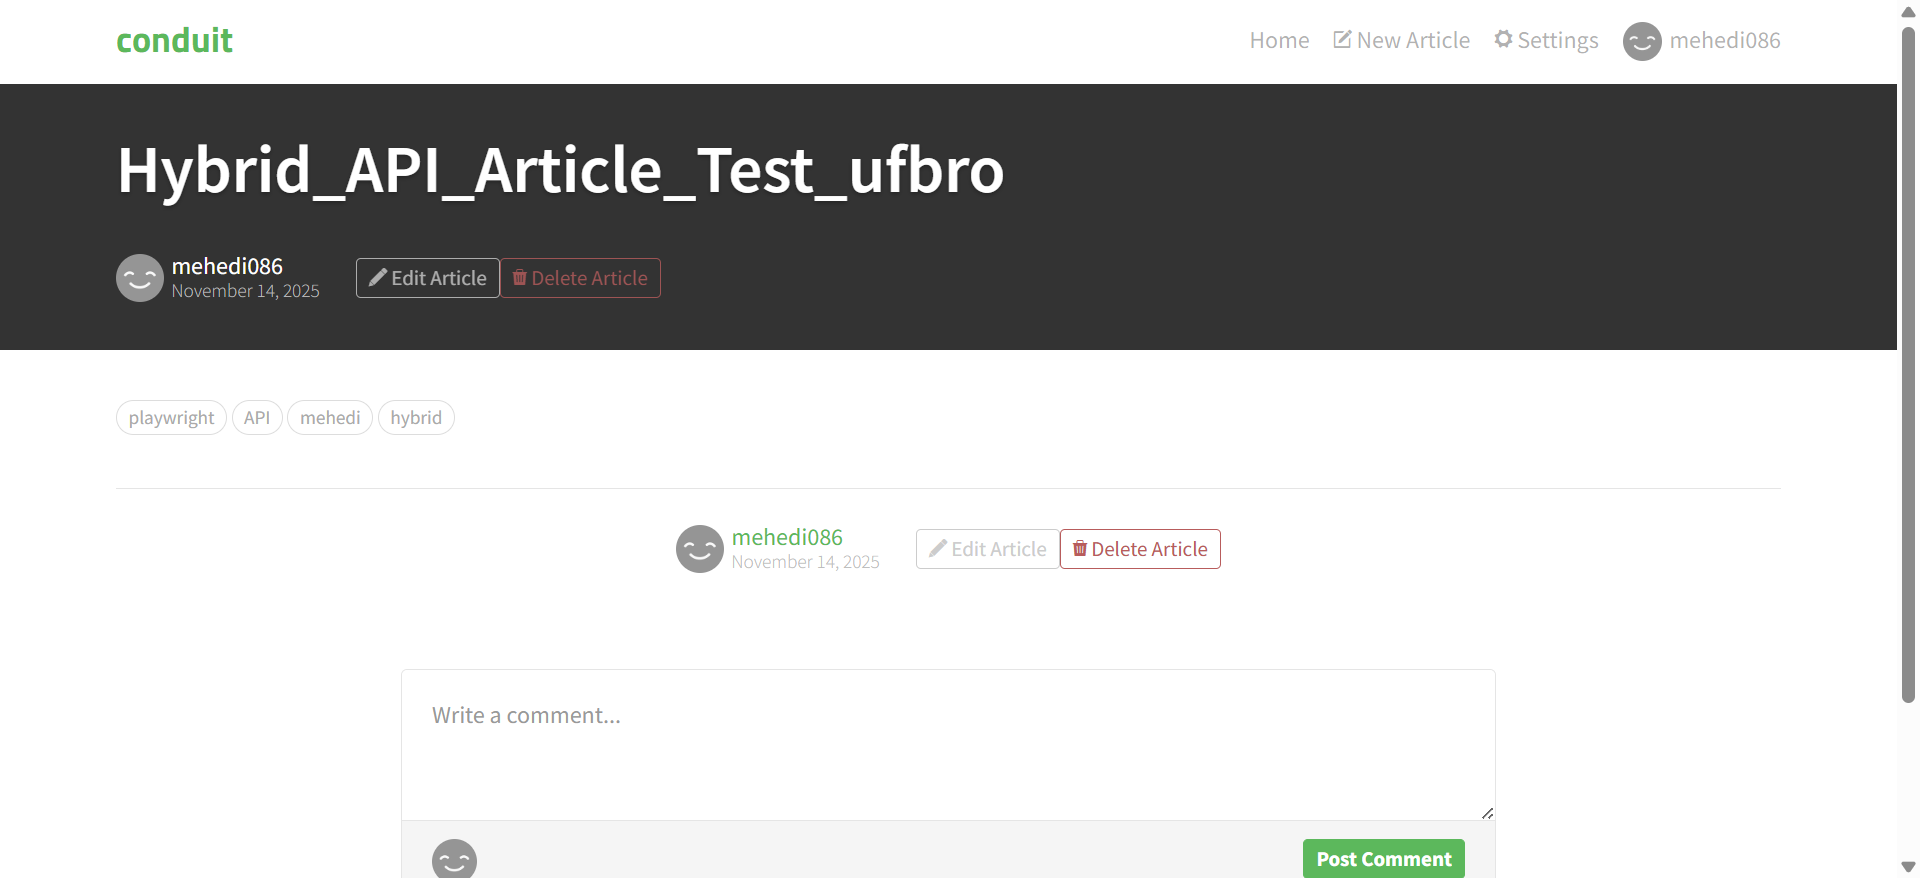
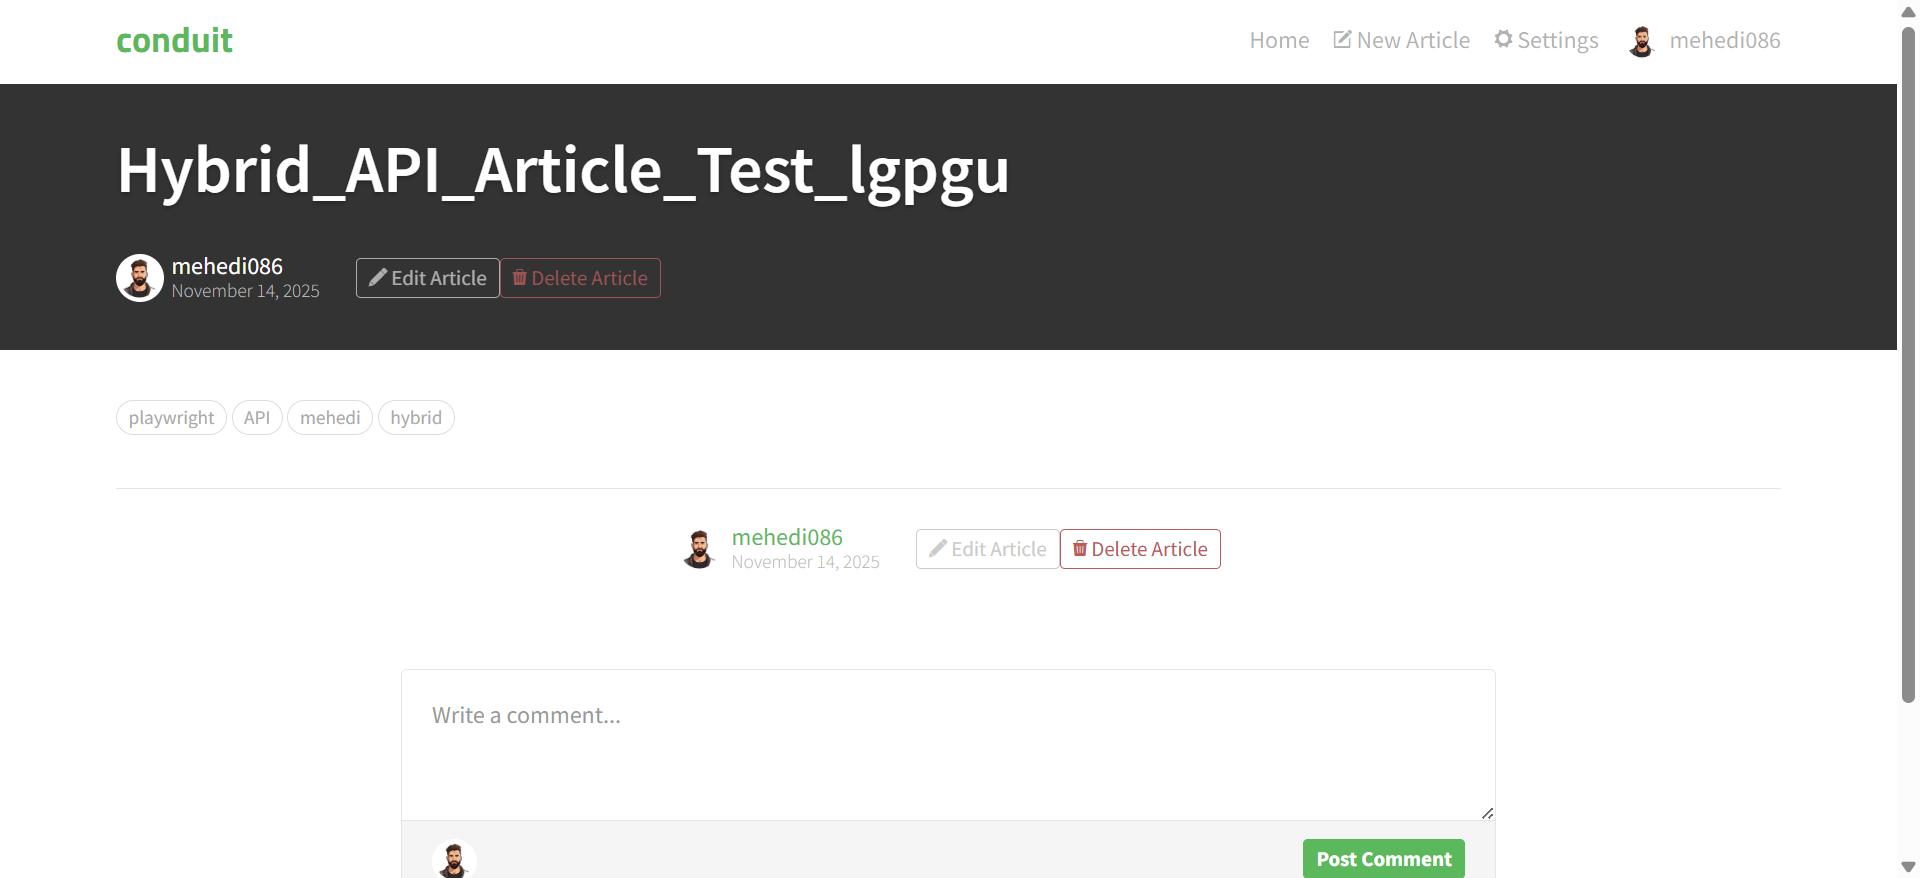
test case: update settings done and passed

diff --git a/report.html b/report.html
@@ -328,7 +328,7 @@ div.media {
   </head>
   <body>
     <h1 id="title">report.html</h1>
-    <p>Report generated on 14-Nov-2025 at 01:18:05 by <a href="https://pypi.python.org/pypi/pytest-html">pytest-html</a>
+    <p>Report generated on 14-Nov-2025 at 02:13:42 by <a href="https://pypi.python.org/pypi/pytest-html">pytest-html</a>
         v4.1.1</p>
     <div id="environment-header">
       <h2>Environment</h2>
@@ -382,7 +382,7 @@ div.media {
         <h2>Summary</h2>
         <div class="additional-summary prefix">
         </div>
-        <p class="run-count">4 tests took 00:00:27.</p>
+        <p class="run-count">5 tests took 00:00:34.</p>
         <p class="filter">(Un)check the boxes to filter the results.</p>
         <div class="summary__reload">
           <div class="summary__reload__button hidden" onclick="location.reload()">
@@ -395,7 +395,7 @@ div.media {
             <input checked="true" class="filter" name="filter_checkbox" type="checkbox" data-test-result="failed" disabled/>
             <span class="failed">0 Failed,</span>
             <input checked="true" class="filter" name="filter_checkbox" type="checkbox" data-test-result="passed" />
-            <span class="passed">4 Passed,</span>
+            <span class="passed">5 Passed,</span>
             <input checked="true" class="filter" name="filter_checkbox" type="checkbox" data-test-result="skipped" disabled/>
             <span class="skipped">0 Skipped,</span>
             <input checked="true" class="filter" name="filter_checkbox" type="checkbox" data-test-result="xfailed" disabled/>
@@ -429,7 +429,7 @@ div.media {
     </table>
   </body>
   <footer>
-    <div id="data-container" data-jsonblob="{&#34;environment&#34;: {&#34;Python&#34;: &#34;3.12.2&#34;, &#34;Platform&#34;: &#34;Windows-11-10.0.26100-SP0&#34;, &#34;Packages&#34;: {&#34;pytest&#34;: &#34;9.0.1&#34;, &#34;pluggy&#34;: &#34;1.6.0&#34;}, &#34;Plugins&#34;: {&#34;html&#34;: &#34;4.1.1&#34;, &#34;metadata&#34;: &#34;3.1.1&#34;}, &#34;JAVA_HOME&#34;: &#34;C:\\Program Files\\Java\\jdk-23&#34;}, &#34;tests&#34;: {&#34;tests/test_case1_create_article.py::test_create_article_via_api_after_ui_login&#34;: [{&#34;extras&#34;: [], &#34;result&#34;: &#34;Passed&#34;, &#34;testId&#34;: &#34;tests/test_case1_create_article.py::test_create_article_via_api_after_ui_login&#34;, &#34;duration&#34;: &#34;00:00:06&#34;, &#34;resultsTableRow&#34;: [&#34;&lt;td class=\&#34;col-result\&#34;&gt;Passed&lt;/td&gt;&#34;, &#34;&lt;td class=\&#34;col-testId\&#34;&gt;tests/test_case1_create_article.py::test_create_article_via_api_after_ui_login&lt;/td&gt;&#34;, &#34;&lt;td class=\&#34;col-duration\&#34;&gt;00:00:06&lt;/td&gt;&#34;, &#34;&lt;td class=\&#34;col-links\&#34;&gt;&lt;/td&gt;&#34;], &#34;log&#34;: &#34;---------------------------- Captured stdout setup -----------------------------\nUsing existing authenticated session\n\n----------------------------- Captured stdout call -----------------------------\nAuth token successfully fetched from saved session\nArticle created via API: Hybrid_API_Article_Test_ufbro-38599\nArticle created successfully via API after UI login\n&#34;}], &#34;tests/test_case2_edit_article.py::test_edit_article_after_api_creation&#34;: [{&#34;extras&#34;: [], &#34;result&#34;: &#34;Passed&#34;, &#34;testId&#34;: &#34;tests/test_case2_edit_article.py::test_edit_article_after_api_creation&#34;, &#34;duration&#34;: &#34;00:00:08&#34;, &#34;resultsTableRow&#34;: [&#34;&lt;td class=\&#34;col-result\&#34;&gt;Passed&lt;/td&gt;&#34;, &#34;&lt;td class=\&#34;col-testId\&#34;&gt;tests/test_case2_edit_article.py::test_edit_article_after_api_creation&lt;/td&gt;&#34;, &#34;&lt;td class=\&#34;col-duration\&#34;&gt;00:00:08&lt;/td&gt;&#34;, &#34;&lt;td class=\&#34;col-links\&#34;&gt;&lt;/td&gt;&#34;], &#34;log&#34;: &#34;----------------------------- Captured stdout call -----------------------------\nArticle created via API: Editable_Article_Test_snqea-38599\nEdited article verified successfully!\n&#34;}], &#34;tests/test_case3_delete_article.py::test_delete_article_after_api_creation&#34;: [{&#34;extras&#34;: [], &#34;result&#34;: &#34;Passed&#34;, &#34;testId&#34;: &#34;tests/test_case3_delete_article.py::test_delete_article_after_api_creation&#34;, &#34;duration&#34;: &#34;00:00:07&#34;, &#34;resultsTableRow&#34;: [&#34;&lt;td class=\&#34;col-result\&#34;&gt;Passed&lt;/td&gt;&#34;, &#34;&lt;td class=\&#34;col-testId\&#34;&gt;tests/test_case3_delete_article.py::test_delete_article_after_api_creation&lt;/td&gt;&#34;, &#34;&lt;td class=\&#34;col-duration\&#34;&gt;00:00:07&lt;/td&gt;&#34;, &#34;&lt;td class=\&#34;col-links\&#34;&gt;&lt;/td&gt;&#34;], &#34;log&#34;: &#34;----------------------------- Captured stdout call -----------------------------\nReused authenticated session successfully\nArticle created via API: Deletable_Article_Test_cueez-38599\nDelete button clicked\nRedirected to home page successfully\nTEST COMPLETED SUCCESSFULLY\n&#34;}], &#34;tests/test_case4_filter_by_tag.py::test_filter_articles_by_tag&#34;: [{&#34;extras&#34;: [], &#34;result&#34;: &#34;Passed&#34;, &#34;testId&#34;: &#34;tests/test_case4_filter_by_tag.py::test_filter_articles_by_tag&#34;, &#34;duration&#34;: &#34;00:00:05&#34;, &#34;resultsTableRow&#34;: [&#34;&lt;td class=\&#34;col-result\&#34;&gt;Passed&lt;/td&gt;&#34;, &#34;&lt;td class=\&#34;col-testId\&#34;&gt;tests/test_case4_filter_by_tag.py::test_filter_articles_by_tag&lt;/td&gt;&#34;, &#34;&lt;td class=\&#34;col-duration\&#34;&gt;00:00:05&lt;/td&gt;&#34;, &#34;&lt;td class=\&#34;col-links\&#34;&gt;&lt;/td&gt;&#34;], &#34;log&#34;: &#34;----------------------------- Captured stdout call -----------------------------\nLogged in successfully using saved session\nSelected random tag: playwright, python, mehedi\nFilter applied for tag: playwright, python, mehedi\nArticles loaded successfully under selected tag\nScreenshot captured for tag &amp;#x27;playwright, python, mehedi&amp;#x27;\n.... TEST COMPLETED SUCCESSFULLY ....\n&#34;}]}, &#34;renderCollapsed&#34;: [&#34;passed&#34;], &#34;initialSort&#34;: &#34;result&#34;, &#34;title&#34;: &#34;report.html&#34;}"></div>
+    <div id="data-container" data-jsonblob="{&#34;environment&#34;: {&#34;Python&#34;: &#34;3.12.2&#34;, &#34;Platform&#34;: &#34;Windows-11-10.0.26100-SP0&#34;, &#34;Packages&#34;: {&#34;pytest&#34;: &#34;9.0.1&#34;, &#34;pluggy&#34;: &#34;1.6.0&#34;}, &#34;Plugins&#34;: {&#34;html&#34;: &#34;4.1.1&#34;, &#34;metadata&#34;: &#34;3.1.1&#34;}, &#34;JAVA_HOME&#34;: &#34;C:\\Program Files\\Java\\jdk-23&#34;}, &#34;tests&#34;: {&#34;tests/test_case1_create_article.py::test_create_article_via_api_after_ui_login&#34;: [{&#34;extras&#34;: [], &#34;result&#34;: &#34;Passed&#34;, &#34;testId&#34;: &#34;tests/test_case1_create_article.py::test_create_article_via_api_after_ui_login&#34;, &#34;duration&#34;: &#34;00:00:07&#34;, &#34;resultsTableRow&#34;: [&#34;&lt;td class=\&#34;col-result\&#34;&gt;Passed&lt;/td&gt;&#34;, &#34;&lt;td class=\&#34;col-testId\&#34;&gt;tests/test_case1_create_article.py::test_create_article_via_api_after_ui_login&lt;/td&gt;&#34;, &#34;&lt;td class=\&#34;col-duration\&#34;&gt;00:00:07&lt;/td&gt;&#34;, &#34;&lt;td class=\&#34;col-links\&#34;&gt;&lt;/td&gt;&#34;], &#34;log&#34;: &#34;---------------------------- Captured stdout setup -----------------------------\nUsing existing authenticated session\n\n----------------------------- Captured stdout call -----------------------------\nAuth token successfully fetched from saved session\nArticle created via API: Hybrid_API_Article_Test_lgpgu-38599\nArticle created successfully via API after UI login\n&#34;}], &#34;tests/test_case2_edit_article.py::test_edit_article_after_api_creation&#34;: [{&#34;extras&#34;: [], &#34;result&#34;: &#34;Passed&#34;, &#34;testId&#34;: &#34;tests/test_case2_edit_article.py::test_edit_article_after_api_creation&#34;, &#34;duration&#34;: &#34;00:00:08&#34;, &#34;resultsTableRow&#34;: [&#34;&lt;td class=\&#34;col-result\&#34;&gt;Passed&lt;/td&gt;&#34;, &#34;&lt;td class=\&#34;col-testId\&#34;&gt;tests/test_case2_edit_article.py::test_edit_article_after_api_creation&lt;/td&gt;&#34;, &#34;&lt;td class=\&#34;col-duration\&#34;&gt;00:00:08&lt;/td&gt;&#34;, &#34;&lt;td class=\&#34;col-links\&#34;&gt;&lt;/td&gt;&#34;], &#34;log&#34;: &#34;----------------------------- Captured stdout call -----------------------------\nArticle created via API: Editable_Article_Test_vmtfq-38599\nEdited article verified successfully!\n&#34;}], &#34;tests/test_case3_delete_article.py::test_delete_article_after_api_creation&#34;: [{&#34;extras&#34;: [], &#34;result&#34;: &#34;Passed&#34;, &#34;testId&#34;: &#34;tests/test_case3_delete_article.py::test_delete_article_after_api_creation&#34;, &#34;duration&#34;: &#34;00:00:07&#34;, &#34;resultsTableRow&#34;: [&#34;&lt;td class=\&#34;col-result\&#34;&gt;Passed&lt;/td&gt;&#34;, &#34;&lt;td class=\&#34;col-testId\&#34;&gt;tests/test_case3_delete_article.py::test_delete_article_after_api_creation&lt;/td&gt;&#34;, &#34;&lt;td class=\&#34;col-duration\&#34;&gt;00:00:07&lt;/td&gt;&#34;, &#34;&lt;td class=\&#34;col-links\&#34;&gt;&lt;/td&gt;&#34;], &#34;log&#34;: &#34;----------------------------- Captured stdout call -----------------------------\nReused authenticated session successfully\nArticle created via API: Deletable_Article_Test_ejxjf-38599\nDelete button clicked\nRedirected to home page successfully\nTEST COMPLETED SUCCESSFULLY\n&#34;}], &#34;tests/test_case4_filter_by_tag.py::test_filter_articles_by_tag&#34;: [{&#34;extras&#34;: [], &#34;result&#34;: &#34;Passed&#34;, &#34;testId&#34;: &#34;tests/test_case4_filter_by_tag.py::test_filter_articles_by_tag&#34;, &#34;duration&#34;: &#34;00:00:05&#34;, &#34;resultsTableRow&#34;: [&#34;&lt;td class=\&#34;col-result\&#34;&gt;Passed&lt;/td&gt;&#34;, &#34;&lt;td class=\&#34;col-testId\&#34;&gt;tests/test_case4_filter_by_tag.py::test_filter_articles_by_tag&lt;/td&gt;&#34;, &#34;&lt;td class=\&#34;col-duration\&#34;&gt;00:00:05&lt;/td&gt;&#34;, &#34;&lt;td class=\&#34;col-links\&#34;&gt;&lt;/td&gt;&#34;], &#34;log&#34;: &#34;----------------------------- Captured stdout call -----------------------------\nLogged in successfully using saved session\nSelected random tag: API\nFilter applied for tag: API\nArticles loaded successfully under selected tag\nScreenshot captured for tag &amp;#x27;API&amp;#x27;\n.... TEST COMPLETED SUCCESSFULLY ....\n&#34;}], &#34;tests/test_case5_update_settings.py::test_update_setings&#34;: [{&#34;extras&#34;: [], &#34;result&#34;: &#34;Passed&#34;, &#34;testId&#34;: &#34;tests/test_case5_update_settings.py::test_update_setings&#34;, &#34;duration&#34;: &#34;00:00:08&#34;, &#34;resultsTableRow&#34;: [&#34;&lt;td class=\&#34;col-result\&#34;&gt;Passed&lt;/td&gt;&#34;, &#34;&lt;td class=\&#34;col-testId\&#34;&gt;tests/test_case5_update_settings.py::test_update_setings&lt;/td&gt;&#34;, &#34;&lt;td class=\&#34;col-duration\&#34;&gt;00:00:08&lt;/td&gt;&#34;, &#34;&lt;td class=\&#34;col-links\&#34;&gt;&lt;/td&gt;&#34;], &#34;log&#34;: &#34;----------------------------- Captured stdout call -----------------------------\nLogged in successfully using saved session\nSettings update submitted\nSettings updated successfully\n&#34;}]}, &#34;renderCollapsed&#34;: [&#34;passed&#34;], &#34;initialSort&#34;: &#34;result&#34;, &#34;title&#34;: &#34;report.html&#34;}"></div>
     <script>
       (function(){function r(e,n,t){function o(i,f){if(!n[i]){if(!e[i]){var c="function"==typeof require&&require;if(!f&&c)return c(i,!0);if(u)return u(i,!0);var a=new Error("Cannot find module '"+i+"'");throw a.code="MODULE_NOT_FOUND",a}var p=n[i]={exports:{}};e[i][0].call(p.exports,function(r){var n=e[i][1][r];return o(n||r)},p,p.exports,r,e,n,t)}return n[i].exports}for(var u="function"==typeof require&&require,i=0;i<t.length;i++)o(t[i]);return o}return r})()({1:[function(require,module,exports){
 const { getCollapsedCategory, setCollapsedIds } = require('./storage.js')

diff --git a/pages/settings_page.py b/pages/settings_page.py
@@ -1,0 +1,36 @@
+from pages.base_page import BasePage
+
+
+class SettingsPage(BasePage):
+    def __init__(self, page):
+        super().__init__(page)
+        self.settings_text = "a:has-text('Settings')"
+        self.settings_link = "a[href='/settings']"
+        self.url_of_pp_input = "input[placeholder='URL of profile picture']"
+        self.username_input = "input[placeholder='Username']"
+        self.short_bio_input = "textarea[placeholder='Short bio about you']"
+        self.email_input = "input[placeholder='Email']"
+        self.new_password_input = "input[placeholder='New Password']"
+        self.update_settings_button = "button:has-text('Update Settings')"
+        self.update_settings_done_text = "a:has-text('My Posts')"
+
+    def go_to_home(self):
+        self.visit("https://conduit.bondaracademy.com/")
+        self.expect_visible(self.settings_text)
+        print("Logged in successfully using saved session")
+
+    def navigate(self):
+        self.click(self.settings_link)
+
+    def update_settings(self, url_of_pp, username, short_bio, email, new_password):
+        self.fill(self.url_of_pp_input, url_of_pp)
+        self.fill(self.username_input, username)
+        self.fill(self.short_bio_input, short_bio)
+        self.fill(self.email_input, email)
+        self.fill(self.new_password_input, new_password)
+        self.click(self.update_settings_button)
+        print("Settings update submitted")
+
+    def expect_settings_update_done(self):
+        self.expect_visible(self.update_settings_done_text)
+        print("Settings updated successfully")

diff --git a/pages/filter_page.py b/pages/filter_page.py
@@ -6,10 +6,12 @@ from pages.base_page import BasePage
 
 
 class FilterPage(BasePage):
-    tag_list = ".tag-list a"
-    feed_toggle = ".feed-toggle li.nav-item a.active"
-    article_preview = ".article-preview"
-    new_article = "a:has-text('New Article')"
+    def __init__(self, page):
+        super().__init__(page)
+        self.tag_list = ".tag-list a"
+        self.feed_toggle = ".feed-toggle li.nav-item a.active"
+        self.article_preview = ".article-preview"
+        self.new_article = "a:has-text('New Article')"
 
     def go_to_home(self):
         self.visit("https://conduit.bondaracademy.com/")

diff --git a/tests/test_case5_update_settings.py b/tests/test_case5_update_settings.py
@@ -1,0 +1,16 @@
+from pages.settings_page import SettingsPage
+
+
+def test_update_setings(page):
+    settings_page = SettingsPage(page)
+    settings_page.go_to_home()
+    settings_page.navigate()
+    settings_page.update_settings(
+        "https://encrypted-tbn0.gstatic.com/images?q=tbn:ANd9GcQaZnF8ElwCzCgHGTNVnaElToLnw3zE4AgEVQ&s",
+        "mehedi086",
+        "Software QA Automation Engineer",
+        "mehedi_test@gmail.com",
+        "Pass@123",
+    )
+    settings_page.expect_settings_update_done()
+    settings_page.page.screenshot(path="screenshots/expect_settings_update_done.png")
